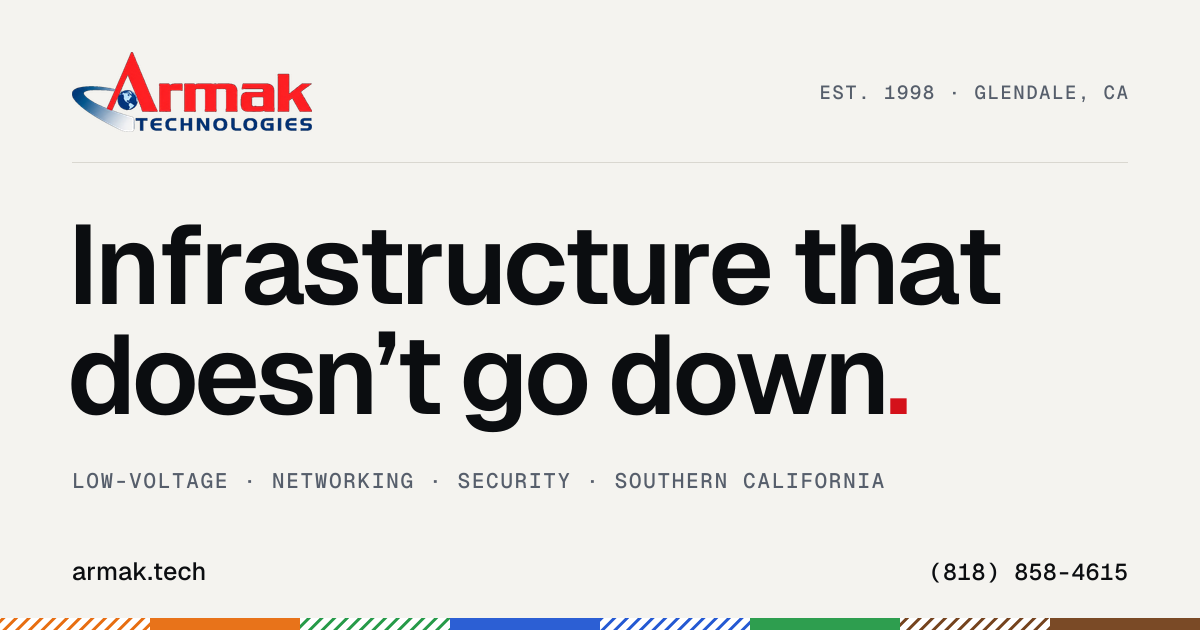
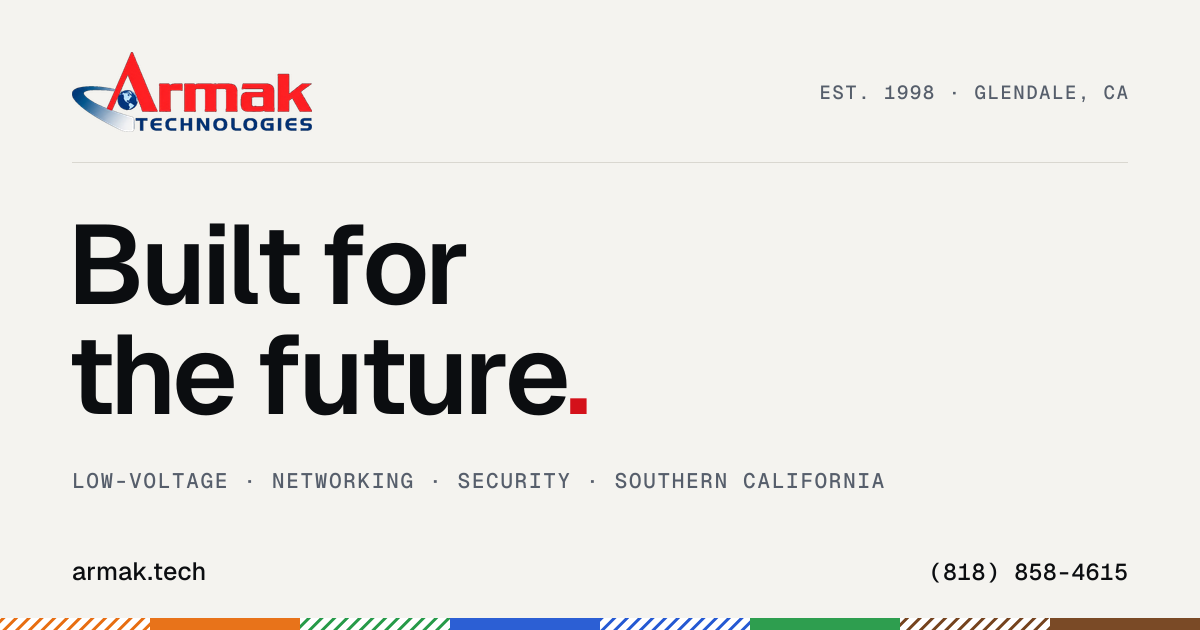
Change homepage tagline to "Built for the future."
Hero headline, share image (regenerated), share-image alt text and style guide.

Changed region(s): [[0.0617, 0.3317, 0.8325, 0.4825], [0.0617, 0.5127, 0.7708, 0.6937]]

diff --git a/src/data/seo.ts b/src/data/seo.ts
@@ -18,7 +18,7 @@ export const defaultOgImage = {
   src: '/og-image.png',
   width: 1200,
   height: 630,
-  alt: `${site.name} — Infrastructure that doesn’t go down. Low-voltage, networking and security across Southern California.`,
+  alt: `${site.name} — Built for the future. Low-voltage, networking and security across Southern California.`,
 };
 
 /** Same @id the service pages use for their `provider`, so search engines merge the two */
